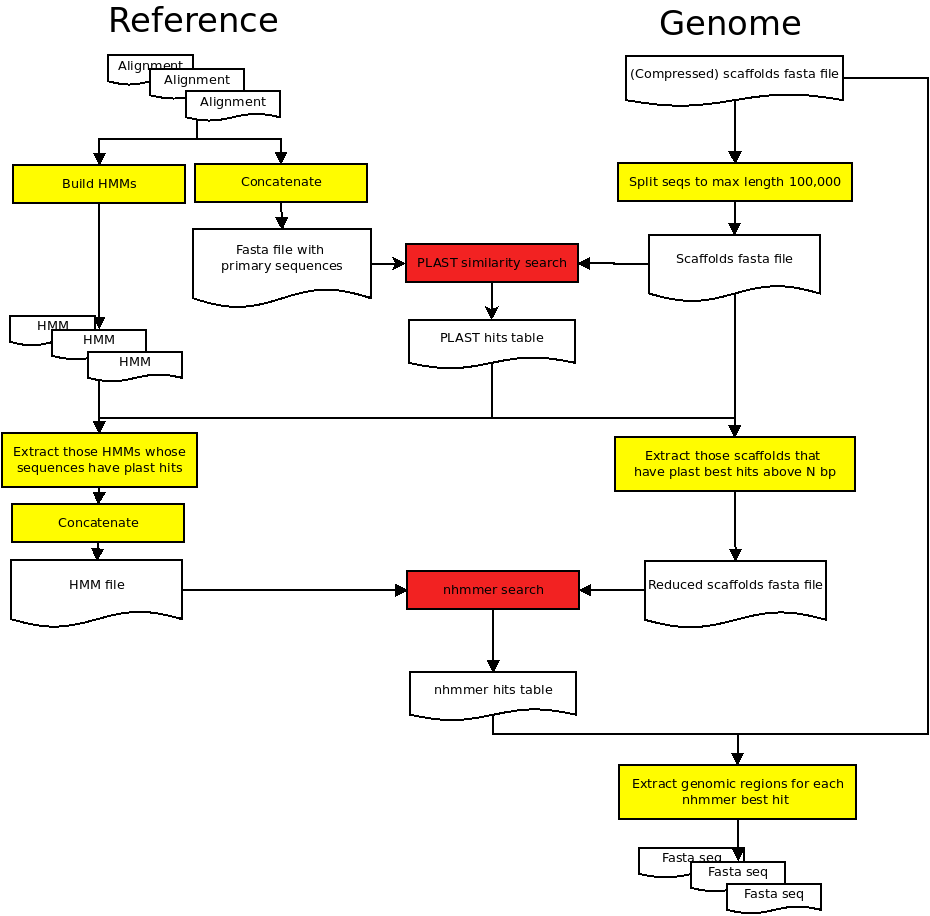
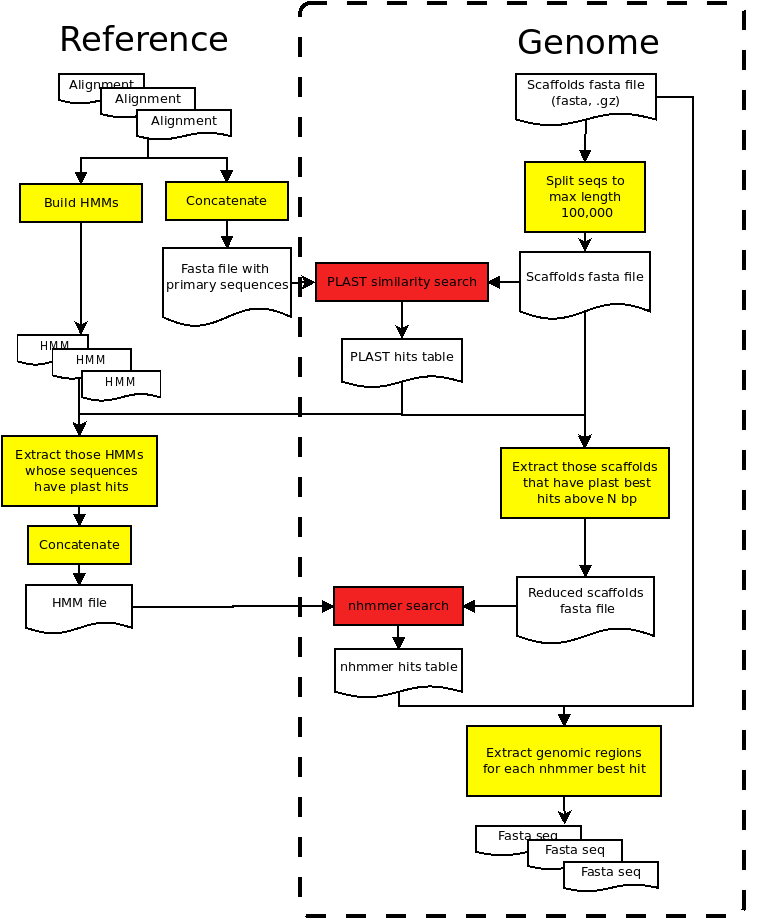
work on documentation

diff --git a/README.md b/README.md
@@ -1,19 +1,25 @@
 # Birdscanner version 2
 
-- Last modified: tor aug 20, 2020  04:45
+- Last modified: tor aug 20, 2020  05:11
 - Sign: JN
 
 
 ## Description
 
 The workflow (Fig. \ref{workflow}) will try to extract known genomic regions
-(based on multiple- sequence alignments and HMMs; the *Reference*) from genome
-files (the *Genome*). The approach taken is essentially a search with HMM's
+(based on multiple- sequence alignments and HMMs; the *Reference*) from a genome
+file (the *Genome*). The approach taken is essentially a search with HMM's
 against a reference genome, with an extra step where an initial similarity
 search is used to reduce the input data down to matching HMM's and genomic
 regions. Both the known genomic regions (multiple nucleotide-sequence
 alignments in fasta format), and the genome files (fasta format, one or several
 scaffolds) must be provided by the user.
+
+If several genomes are provided, the workflow can also collect each genomic
+region extracted from each genome (the *Fasta seq* files), and produce
+unaligned "gene" files that can be the input to a multiple-sequence alignment
+software.
+
 
 ![Birdscanner2 workflow\label{workflow}](resources/img/Diagram1.png)
 
